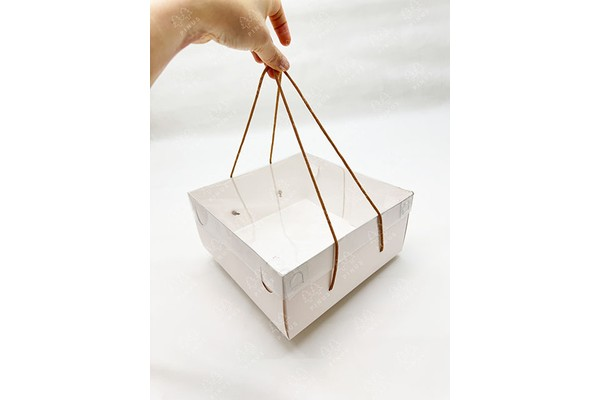
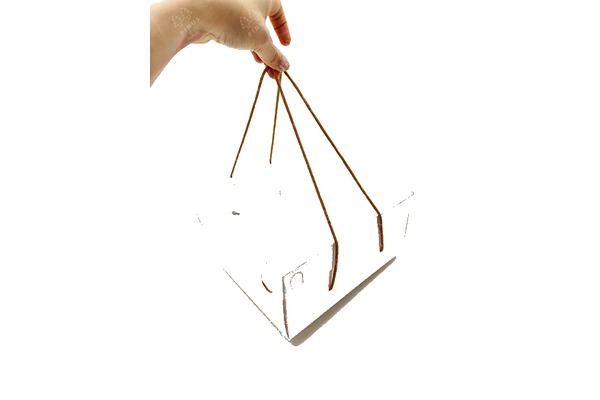
fix: background foto putih bersih, border hanya di foto bukan card

Changed region(s): [[0.24, 0.36, 0.69, 1.0], [0.24, 0.0, 0.75, 0.36]]

diff --git a/index.html b/index.html
@@ -88,20 +88,20 @@ nav {
 .services-header-right { max-width: 380px; }
 .services-grid { display: grid; grid-template-columns: repeat(3, 1fr); gap: 24px; }
 .service-card {
-  border-radius: 16px; overflow: hidden;
-  box-shadow: 0 2px 12px rgba(0,0,0,0.07);
-  transition: box-shadow 0.2s, transform 0.2s;
+  background: transparent;
+  transition: transform 0.2s;
 }
-.service-card:hover { box-shadow: 0 8px 32px rgba(39,174,96,0.18); transform: translateY(-3px); }
+.service-card:hover { transform: translateY(-4px); }
 .service-card-img {
-  width: 100%; height: 200px; overflow: hidden;
+  width: 100%; height: 220px; overflow: hidden;
   background: #fff;
   display: flex; align-items: center; justify-content: center;
-  border-radius: 12px 12px 0 0;
+  border-radius: 16px;
+  box-shadow: 0 2px 14px rgba(0,0,0,0.09);
 }
 .service-card-img img {
   width: 100%; height: 100%; object-fit: contain; object-position: center;
-  background: #fff;
+  background: #fff; padding: 12px;
 }
 .service-card-body { padding: 20px; }
 .service-card-body h3 { font-size: 18px; font-weight: 700; margin-bottom: 10px; }
